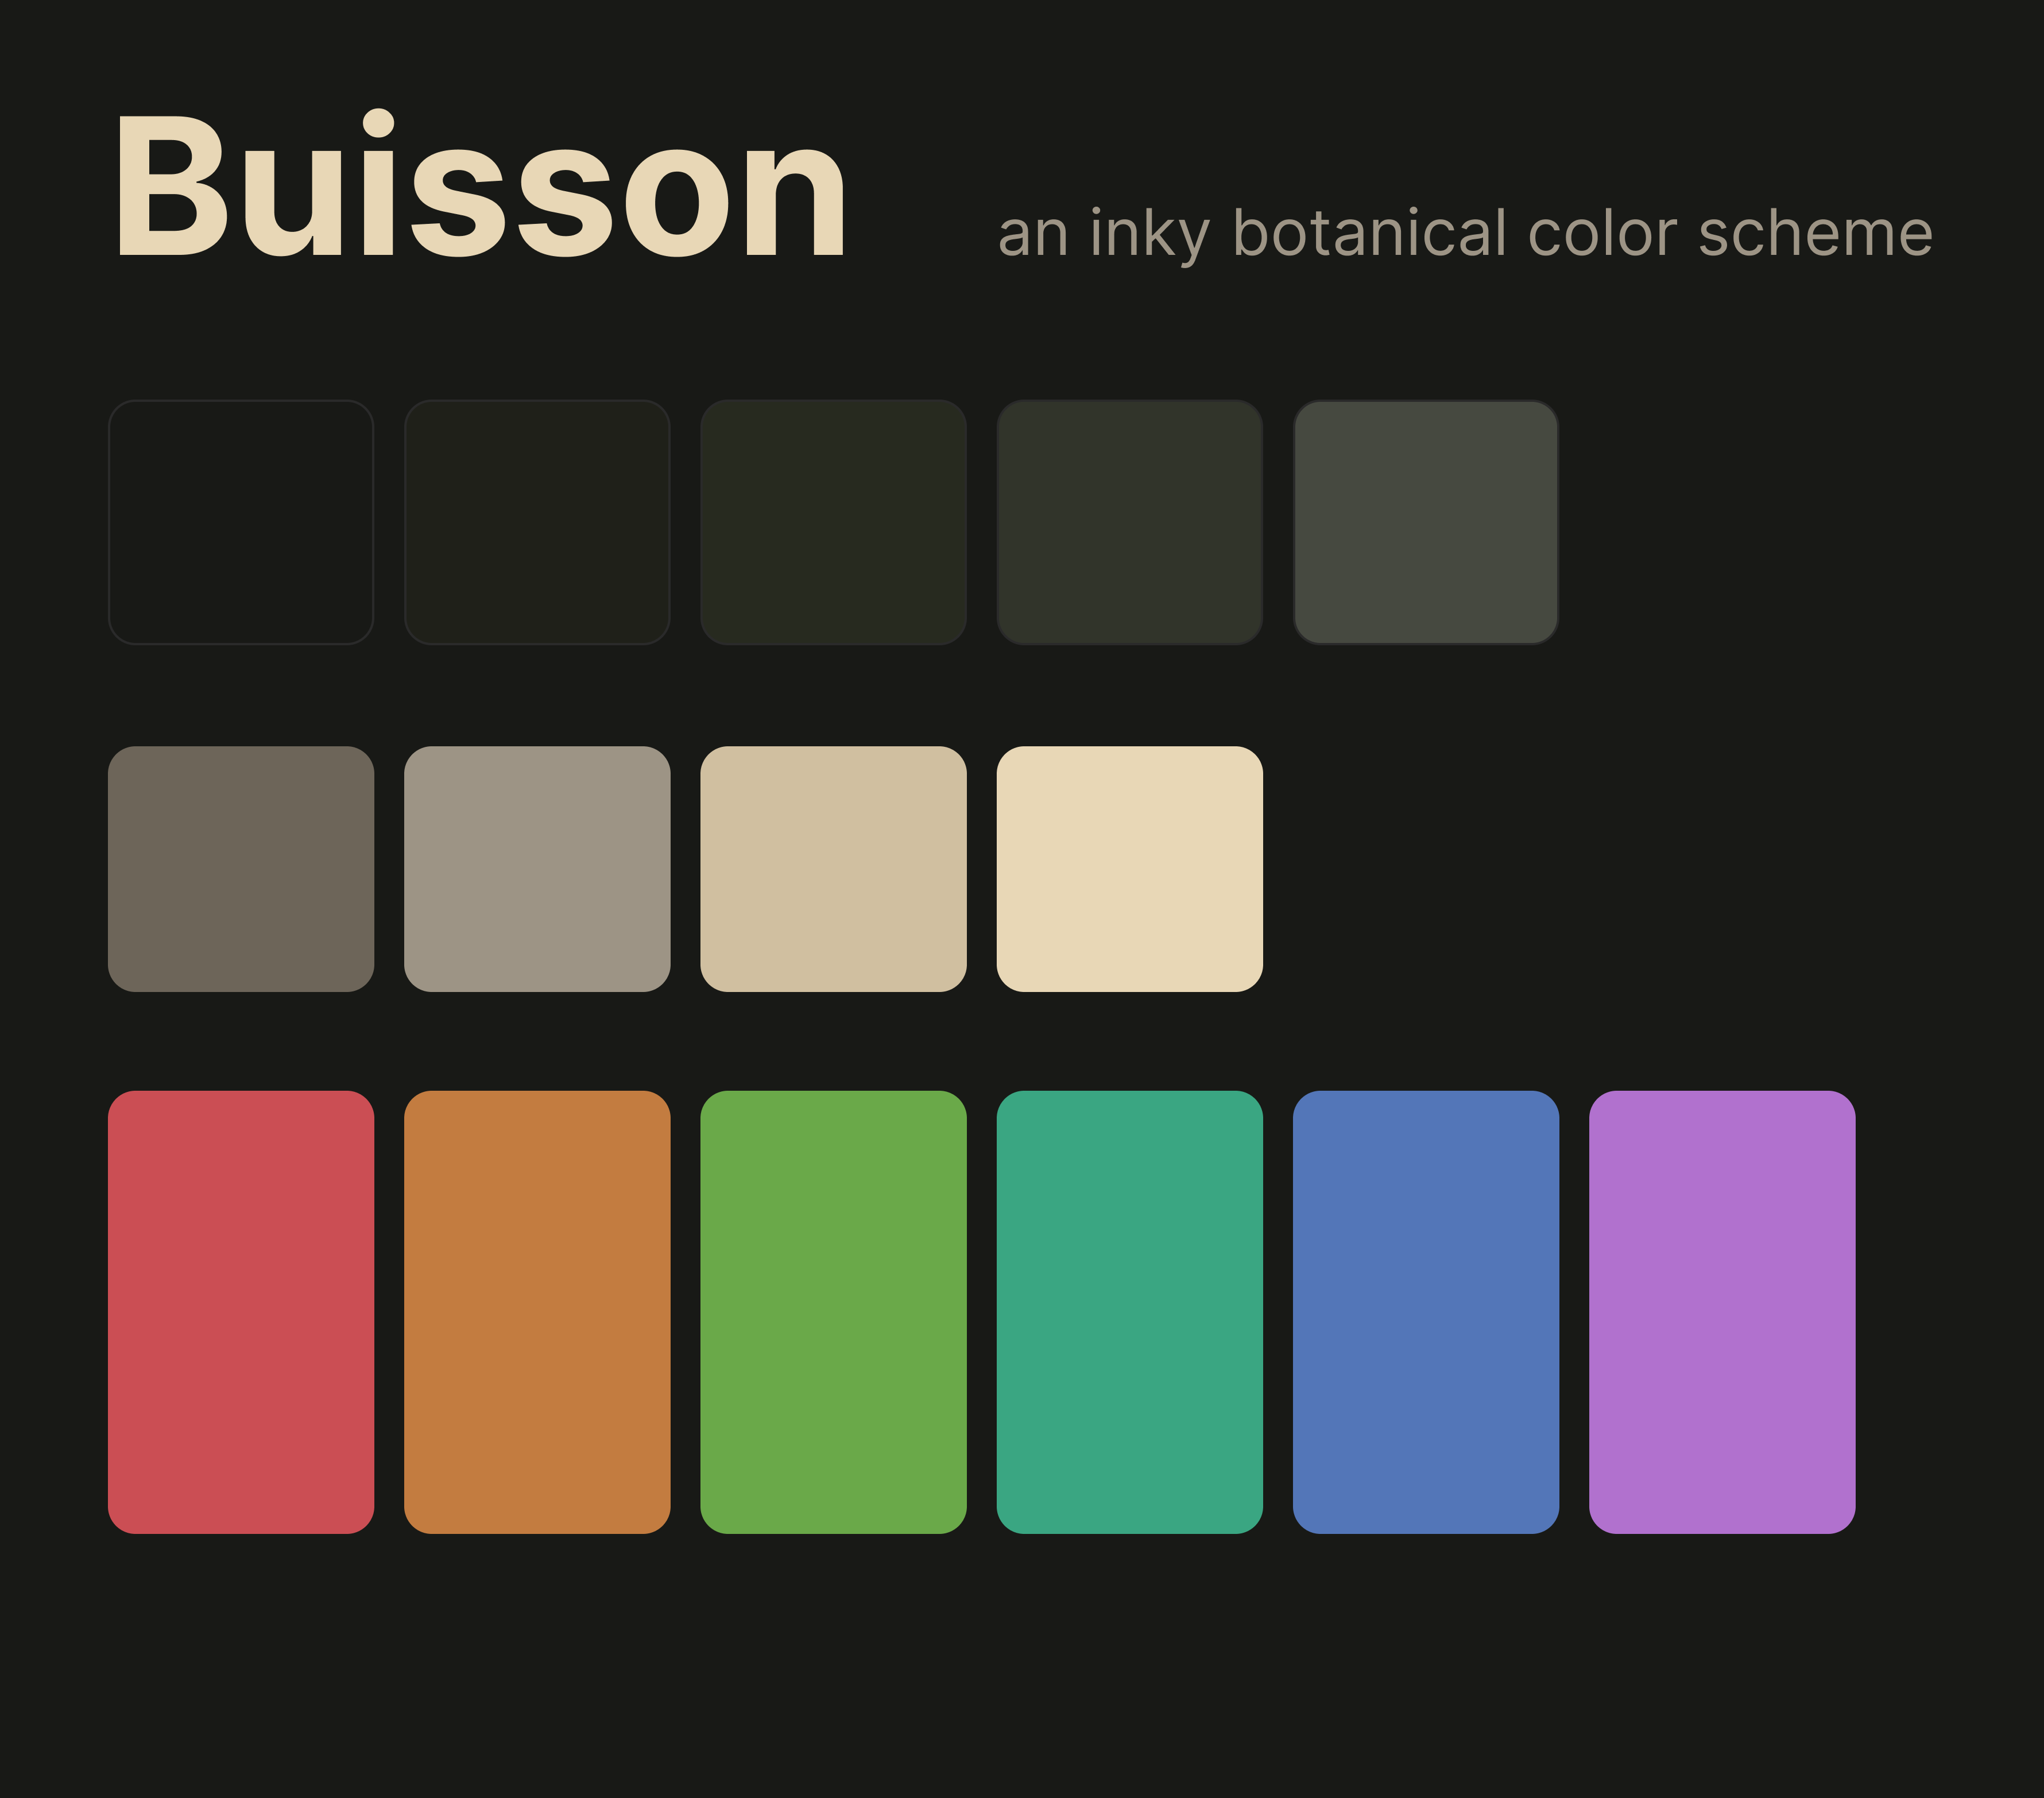
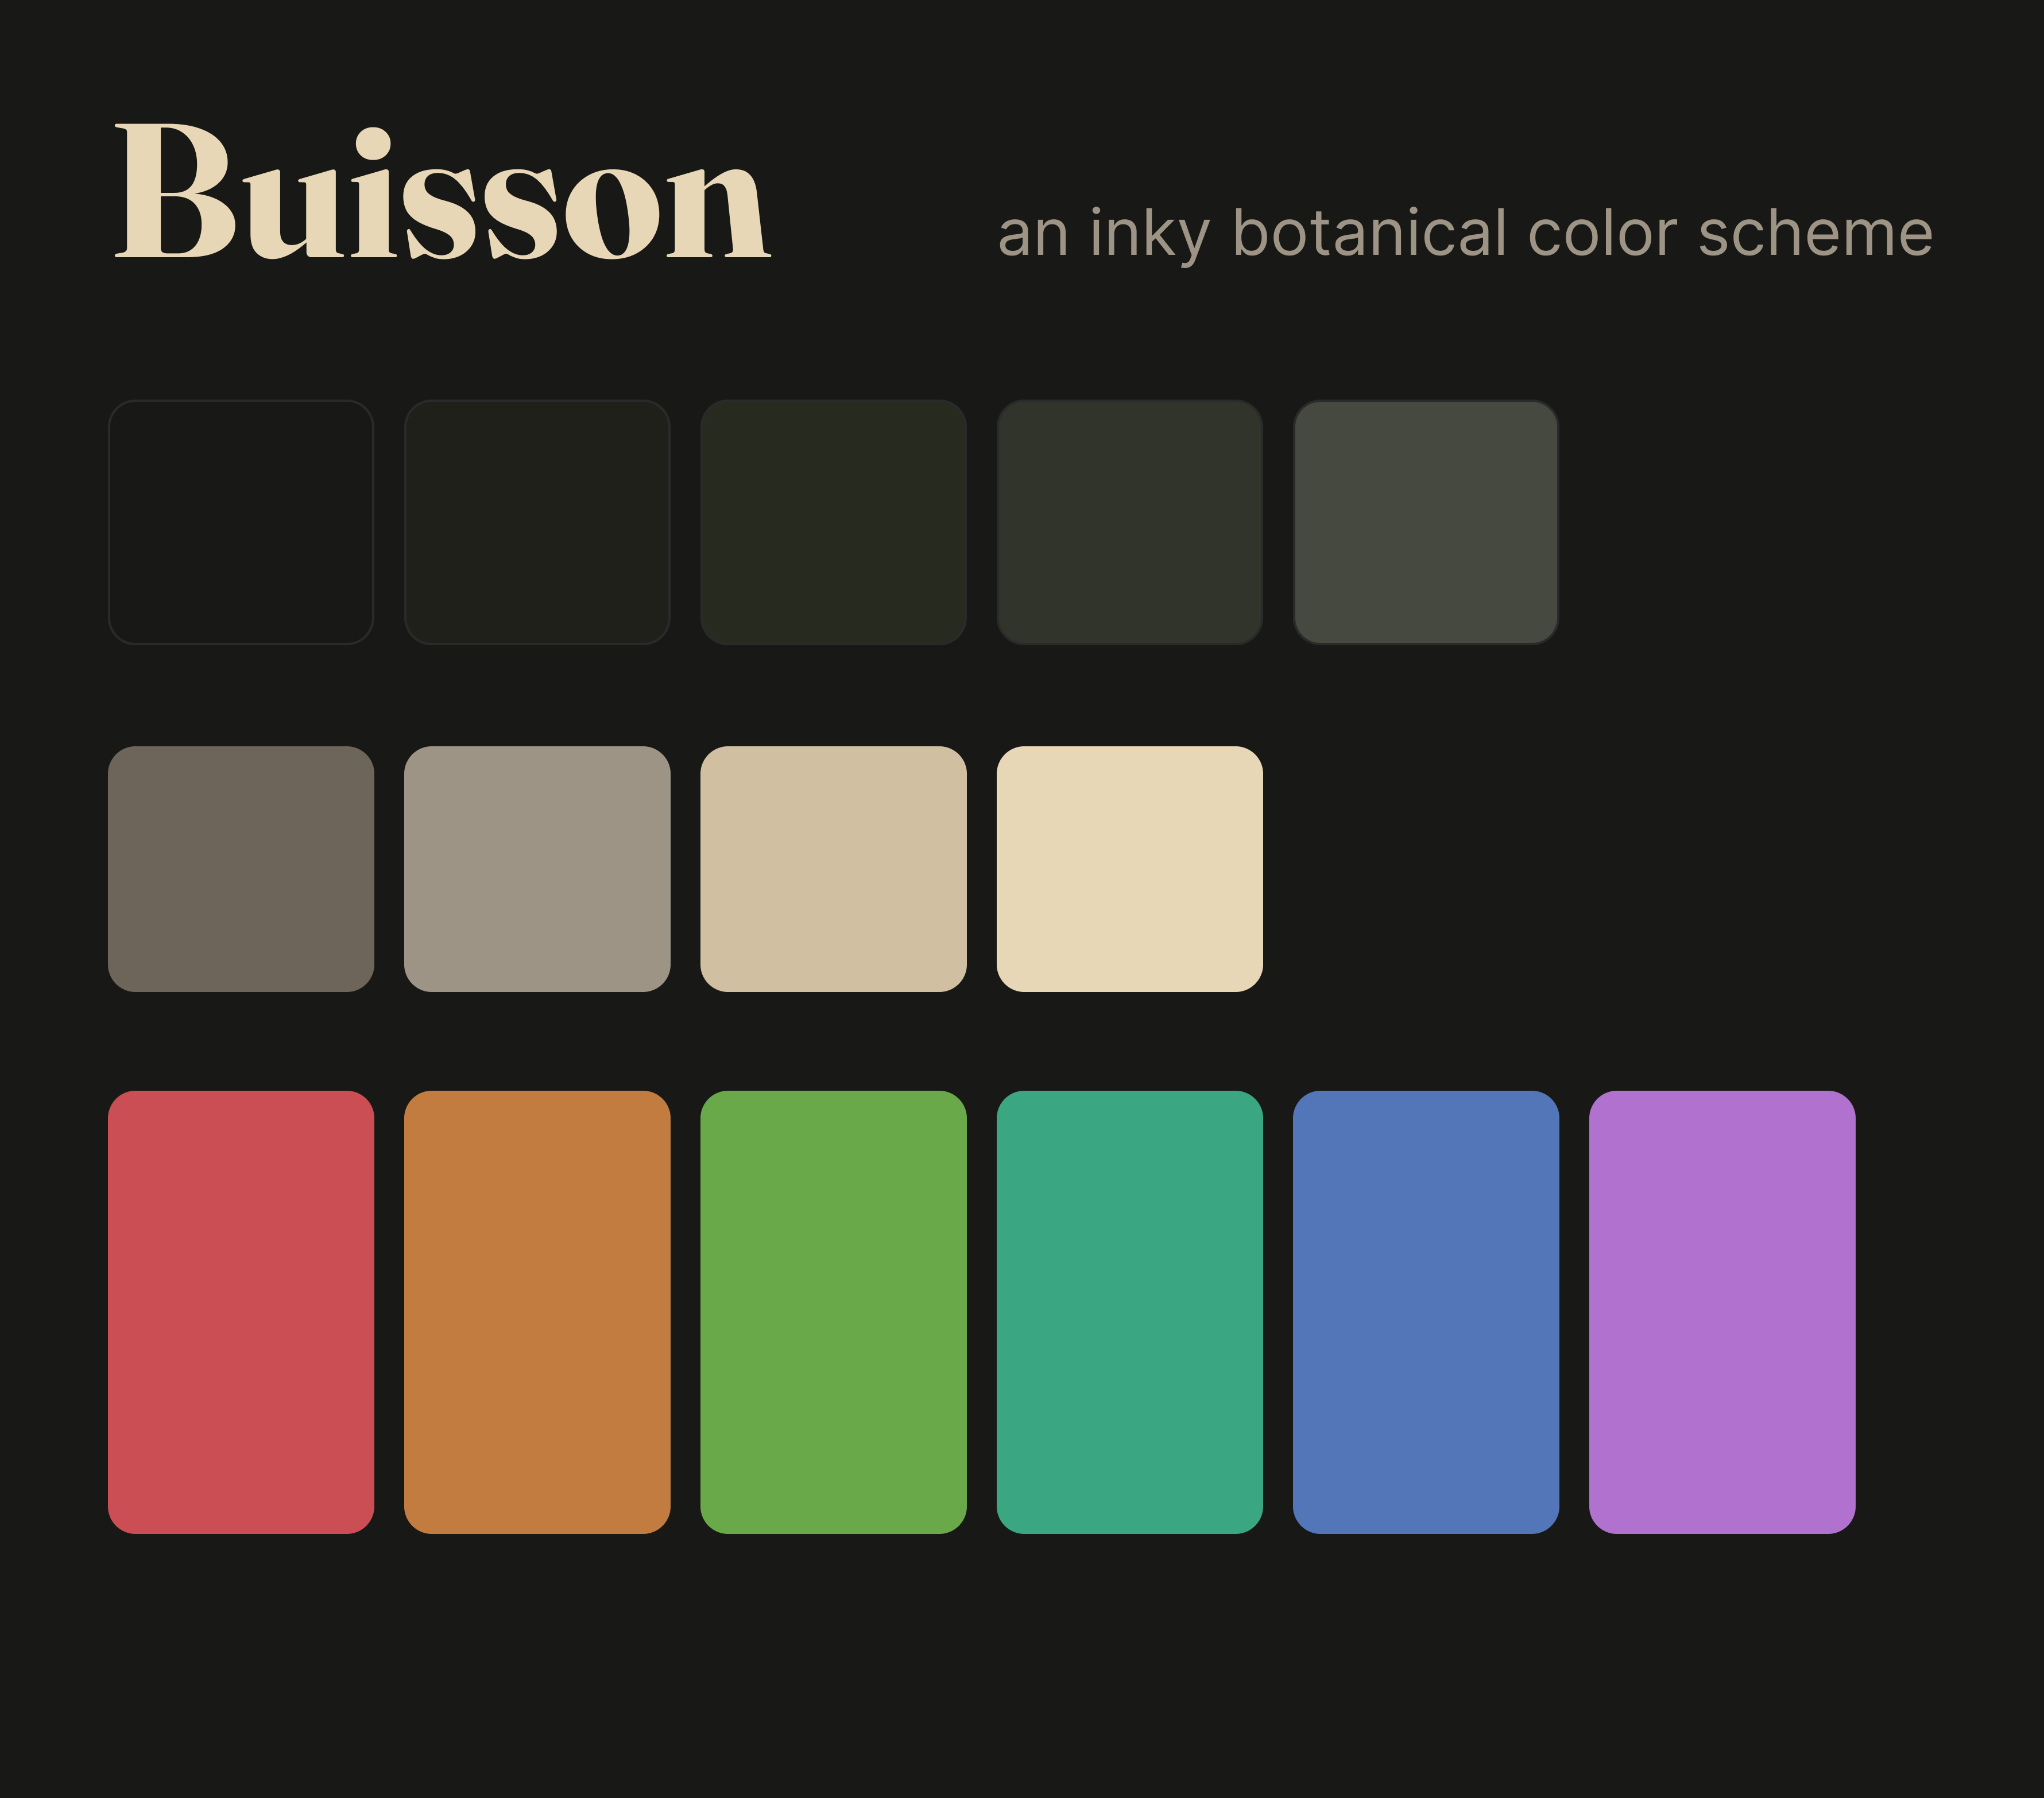
chore: update palette images + README

Changed region(s): [[0.0312, 0.0619, 0.4365, 0.1549]]

diff --git a/README.md b/README.md
@@ -130,6 +130,13 @@ Switch variants with `:set background=dark` / `:set background=light`.
 | thistle | `#b070d0` | `#6028a8` | operators · decorators |
 | ochre | `#c87838` | `#a04810` | strings · templates |
 
+<table>
+  <tr>
+    <td><img src="assets/dark.png" alt="Buisson Dark palette" /></td>
+    <td><img src="assets/light.png" alt="Buisson Light palette" /></td>
+  </tr>
+</table>
+
 Design tokens available in `tokens/buisson-tokens.json` compatible with [Tokens Studio](https://tokens.studio/) and [Style Dictionary](https://amzn.github.io/style-dictionary/).
 
 ## Ports